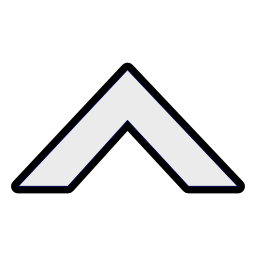
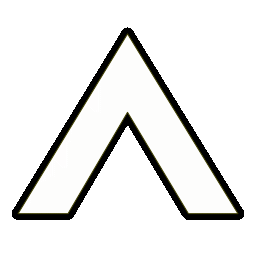
- added appserverversion to App - direct event change listenr - added ligth dark direction marker

Changed region(s): [[0.0312, 0.0938, 0.9688, 0.875]]

diff --git a/lib/models/shake_hand_result.mapper.dart b/lib/models/shake_hand_result.mapper.dart
@@ -26,6 +26,9 @@ class ShakeHandResultMapper extends ClassMapperBase<ShakeHandResult> {
   static int _$minBuild(ShakeHandResult v) => v.minBuild;
   static const Field<ShakeHandResult, int> _f$minBuild =
       Field('minBuild', _$minBuild, key: 'mbu');
+  static String? _$serverVersion(ShakeHandResult v) => v.serverVersion;
+  static const Field<ShakeHandResult, String> _f$serverVersion =
+      Field('serverVersion', _$serverVersion, key: 'ver', opt: true);
   static Exception? _$rpcException(ShakeHandResult v) => v.rpcException;
   static const Field<ShakeHandResult, Exception> _f$rpcException =
       Field('rpcException', _$rpcException, opt: true);
@@ -34,6 +37,7 @@ class ShakeHandResultMapper extends ClassMapperBase<ShakeHandResult> {
   final MappableFields<ShakeHandResult> fields = const {
     #status: _f$status,
     #minBuild: _f$minBuild,
+    #serverVersion: _f$serverVersion,
     #rpcException: _f$rpcException,
   };
 
@@ -41,6 +45,7 @@ class ShakeHandResultMapper extends ClassMapperBase<ShakeHandResult> {
     return ShakeHandResult(
         status: data.dec(_f$status),
         minBuild: data.dec(_f$minBuild),
+        serverVersion: data.dec(_f$serverVersion),
         rpcException: data.dec(_f$rpcException));
   }
 
@@ -97,7 +102,11 @@ extension ShakeHandResultValueCopy<$R, $Out>
 
 abstract class ShakeHandResultCopyWith<$R, $In extends ShakeHandResult, $Out>
     implements ClassCopyWith<$R, $In, $Out> {
-  $R call({bool? status, int? minBuild, Exception? rpcException});
+  $R call(
+      {bool? status,
+      int? minBuild,
+      String? serverVersion,
+      Exception? rpcException});
   ShakeHandResultCopyWith<$R2, $In, $Out2> $chain<$R2, $Out2>(
       Then<$Out2, $R2> t);
 }
@@ -111,16 +120,22 @@ class _ShakeHandResultCopyWithImpl<$R, $Out>
   late final ClassMapperBase<ShakeHandResult> $mapper =
       ShakeHandResultMapper.ensureInitialized();
   @override
-  $R call({bool? status, int? minBuild, Object? rpcException = $none}) =>
+  $R call(
+          {bool? status,
+          int? minBuild,
+          Object? serverVersion = $none,
+          Object? rpcException = $none}) =>
       $apply(FieldCopyWithData({
         if (status != null) #status: status,
         if (minBuild != null) #minBuild: minBuild,
+        if (serverVersion != $none) #serverVersion: serverVersion,
         if (rpcException != $none) #rpcException: rpcException
       }));
   @override
   ShakeHandResult $make(CopyWithData data) => ShakeHandResult(
       status: data.get(#status, or: $value.status),
       minBuild: data.get(#minBuild, or: $value.minBuild),
+      serverVersion: data.get(#serverVersion, or: $value.serverVersion),
       rpcException: data.get(#rpcException, or: $value.rpcException));
 
   @override

diff --git a/lib/wamp/wamp_v2.dart b/lib/wamp/wamp_v2.dart
@@ -14,6 +14,7 @@ import '../app_settings/server_connections.dart';
 import '../helpers/hive_box/hive_settings_db.dart';
 import '../helpers/logger.dart';
 import '../helpers/wamp/message_types.dart';
+import '../models/event.dart';
 import '../models/realtime_update.dart';
 import '../models/shake_hand_result.dart';
 import 'bn_wamp_message.dart';
@@ -78,6 +79,7 @@ class WampV2 {
   final _wampConnectedStreamController = StreamController<bool>.broadcast();
   final realTimeUpdateStreamController =
       StreamController<RealtimeUpdate>.broadcast();
+  final eventUpdateStreamController = StreamController<Event>.broadcast();
 
   StreamController<bool> get wampConnectedStreamController =>
       _wampConnectedStreamController;
@@ -428,8 +430,18 @@ class WampV2 {
             //         PUBLISH.Arguments|list, PUBLISH.ArgumentsKw|dict]
             //[36, 5512315355, 4429313566, {}, [], {"color": "orange", "sizes": [23, 42, 7]}]
             try {
-              var messageResult = wampMessage[2];
+              var payload = wampMessage[2];
               var id = int.parse(wampMessage[1]);
+              if (id == 12345678 && wampMessage.length >= 3) {
+                //new event triggered
+                try {
+                  var event = EventMapper.fromMap(payload);
+                  eventUpdateStreamController.sink.add(event);
+                } catch (e) {
+                  BnLog.error(text: 'error event decoding wampV2');
+                }
+                return;
+              }
               _subscriptions.add(id);
               //realTimeUpdateStreamController.sink.add(RealtimeUpdateMapper.fromMap(messageResult));
               return;

diff --git a/lib/pages/widgets/route_name_dialog.dart b/lib/pages/widgets/route_name_dialog.dart
@@ -1,3 +1,4 @@
+import 'package:adaptive_theme/adaptive_theme.dart';
 import 'package:flutter/cupertino.dart';
 import 'package:flutter/material.dart';
 import 'package:flutter_map/flutter_map.dart';
@@ -132,10 +133,16 @@ class RouteNameDialog extends ConsumerWidget {
                               child: Builder(
                                 builder: (context) => Transform.rotate(
                                   angle: hp.bearing,
-                                  child: const Image(
-                                    image: AssetImage(
-                                      'assets/images/arrow_up_mgn_small.png',
-                                    ),
+                                  child: Image(
+                                    image: CupertinoAdaptiveTheme.of(context)
+                                                .theme
+                                                .brightness ==
+                                            Brightness.dark
+                                        ? AssetImage(
+                                            'assets/images/arrow_up_pure_margin.png',
+                                          )
+                                        : AssetImage(
+                                            'assets/images/arrow_up_pure_margin_dark.png'),
                                     fit: BoxFit.cover,
                                   ),
                                 ),

diff --git a/lib/pages/widgets/route_dialog.dart b/lib/pages/widgets/route_dialog.dart
@@ -1,3 +1,4 @@
+import 'package:adaptive_theme/adaptive_theme.dart';
 import 'package:flutter/cupertino.dart';
 import 'package:flutter/material.dart';
 import 'package:flutter_map/flutter_map.dart';
@@ -122,10 +123,16 @@ class RouteDialog extends ConsumerWidget {
                               child: Builder(
                                 builder: (context) => Transform.rotate(
                                   angle: hp.bearing,
-                                  child: const Image(
-                                    image: AssetImage(
-                                      'assets/images/arrow_up_mgn_small.png',
-                                    ),
+                                  child: Image(
+                                    image: CupertinoAdaptiveTheme.of(context)
+                                                .theme
+                                                .brightness ==
+                                            Brightness.dark
+                                        ? AssetImage(
+                                            'assets/images/arrow_up_pure_margin.png',
+                                          )
+                                        : AssetImage(
+                                            'assets/images/arrow_up_pure_margin_dark.png'),
                                     fit: BoxFit.cover,
                                   ),
                                 ),

diff --git a/lib/pages/home_info/event_map_small.dart b/lib/pages/home_info/event_map_small.dart
@@ -1,3 +1,4 @@
+import 'package:adaptive_theme/adaptive_theme.dart';
 import 'package:flutter/cupertino.dart';
 import 'package:flutter_map/flutter_map.dart';
 import 'package:flutter_riverpod/flutter_riverpod.dart';
@@ -117,10 +118,16 @@ class _EventMapSmallState extends ConsumerState<EventMapSmall> {
                         child: Builder(
                           builder: (context) => Transform.rotate(
                             angle: hp.bearing,
-                            child: const Image(
-                              image: AssetImage(
-                                'assets/images/arrow_up_mgn_small.png',
-                              ),
+                            child: Image(
+                              image: CupertinoAdaptiveTheme.of(context)
+                                          .theme
+                                          .brightness ==
+                                      Brightness.dark
+                                  ? AssetImage(
+                                      'assets/images/arrow_up_pure_margin.png',
+                                    )
+                                  : AssetImage(
+                                      'assets/images/arrow_up_pure_margin_dark.png'),
                               fit: BoxFit.cover,
                             ),
                           ),

diff --git a/lib/pages/map/widgets/headings_layer.dart b/lib/pages/map/widgets/headings_layer.dart
@@ -1,3 +1,4 @@
+import 'package:adaptive_theme/adaptive_theme.dart';
 import 'package:flutter/material.dart';
 import 'package:flutter_map/flutter_map.dart';
 import 'package:flutter_riverpod/flutter_riverpod.dart';
@@ -42,10 +43,15 @@ class _HeadingsLayerState extends ConsumerState<HeadingsLayer> {
               child: Builder(
                 builder: (context) => Transform.rotate(
                   angle: hp.bearing,
-                  child: const Image(
-                    image: AssetImage(
-                      'assets/images/arrow_up_mgn_small.png',
-                    ),
+                  child: Image(
+                    image:
+                        CupertinoAdaptiveTheme.of(context).theme.brightness ==
+                                Brightness.dark
+                            ? AssetImage(
+                                'assets/images/arrow_up_pure_margin.png',
+                              )
+                            : AssetImage(
+                                'assets/images/arrow_up_pure_margin_dark.png'),
                     fit: BoxFit.cover,
                   ),
                 ),

diff --git a/lib/providers/map/heading_marker_size_provider.dart b/lib/providers/map/heading_marker_size_provider.dart
@@ -1,23 +1,32 @@
 import 'package:riverpod_annotation/riverpod_annotation.dart';
 
+import 'icon_size_provider.dart';
+
 part 'heading_marker_size_provider.g.dart';
 
 @riverpod
 class HeadingMarkerSize extends _$HeadingMarkerSize {
+  var size = 20.0;
+
   @override
   double build() {
-    return 20;
+    size = ref.watch(iconSizeProvider);
+    return size * 2;
   }
 
   double setSize(double value) {
+    print('headingmarker zoom size= $value');
     if (value > 18) {
-      state = value * 2;
+      state = value * 1.5;
     } else if (value > 15) {
+      state = value * 1.4;
+    } else if (value > 11) {
       state = value * 1.2;
     } else {
-      state = value * 0.9;
+      state = value * 1.0;
     }
     //print('heading_marker_size_provider size $value $state');
-    return state;
+    print('headingmarker zoom result size= $state');
+    return state * 2;
   }
 }

diff --git a/lib/providers/active_event_provider.dart b/lib/providers/active_event_provider.dart
@@ -1,3 +1,5 @@
+import 'dart:async';
+
 import 'package:flutter/foundation.dart';
 import 'package:riverpod_annotation/riverpod_annotation.dart';
 
@@ -5,14 +7,23 @@ import '../helpers/hive_box/hive_settings_db.dart';
 import '../helpers/notification/notification_helper.dart';
 import '../helpers/watch_communication_helper.dart';
 import '../models/event.dart';
+import '../wamp/wamp_v2.dart';
 
 part 'active_event_provider.g.dart';
 
 @Riverpod(keepAlive: true)
 class ActiveEvent extends _$ActiveEvent {
+  StreamSubscription<Event>? evtStream;
   @override
   Event build() {
     state = HiveSettingsDB.getActualEvent;
+    evtStream = WampV2().eventUpdateStreamController.stream.listen((event) {
+      state = event;
+    });
+
+    ref.onDispose(() {
+      evtStream?.cancel();
+    });
     return state;
   }
 

diff --git a/lib/models/shake_hand_result.dart b/lib/models/shake_hand_result.dart
@@ -19,6 +19,8 @@ class ShakeHandResult with ShakeHandResultMappable {
   final bool status;
   @MappableField(key: 'mbu')
   final int minBuild;
+  @MappableField(key: 'ver')
+  final String? serverVersion;
 
   Exception? rpcException;
 
@@ -27,7 +29,10 @@ class ShakeHandResult with ShakeHandResultMappable {
   /// [status] = [false] -> App is outdated
   /// [minBuild] = Minimum required Buildnumber
   ShakeHandResult(
-      {required this.status, required this.minBuild, this.rpcException});
+      {required this.status,
+      required this.minBuild,
+      this.serverVersion,
+      this.rpcException});
 
   static Future<ShakeHandResult> shakeHandsWamp() async {
     Completer? completer = Completer();

diff --git a/lib/pages/events/widgets/event_editor.dart b/lib/pages/events/widgets/event_editor.dart
@@ -82,6 +82,7 @@ class _EventEditorState extends ConsumerState<EventEditor> {
             isSaving
                 ? const SliverToBoxAdapter(child: LinearProgressIndicator())
                 : SliverFillRemaining(
+                    fillOverscroll: true,
                     child: Column(children: [
                       Divider(
                         thickness: 2,

diff --git a/lib/pages/map/widgets/special_function_info.dart b/lib/pages/map/widgets/special_function_info.dart
@@ -63,11 +63,11 @@ class SpecialFunctionInfo extends ConsumerWidget {
             ),
           ]),
         ),
-      if (!kIsWeb &&
+      /*if (!kIsWeb &&
           (ref.watch(showOwnColoredTrackProvider) ||
               (isTracking && wantSeeFullProcession))) ...[
         const SpeedInfoColors(),
-      ],
+      ],*/
     ]);
   }
 }

diff --git a/changelog.md b/changelog.md
@@ -3,28 +3,44 @@
 ## [Unreleased]
 
 ### Added
+
 ### Fixed
+
 ### Changed
+
 ### Removed
+
+## [1.25.00] - 2025 - dev
+
+- shakehand get server_version
+- graphical improvements
+- immediately event change info
+- nodes in actual event transfered
 
 ## [1.24.19] - 2024-07-13
 
 ### Changed
+
 - colored user-track-lines
 - new colors for polygon layers
+
 #### Packages
+
 - flutter_map to V7.0.2
 - onesignal to V5.2.0
 
-
 ### Fixed
+
 - Update for improvement of ploygonlayer issue in fluttermap
-    see https://pub.dev/packages/flutter_map/changelog
+  see https://pub.dev/packages/flutter_map/changelog
 
 ## [1.24.18] - 2024-06-23
-### Fixed 
+
+### Fixed
+
 - Removed nearby friend connection because many issues of Android OS with all frameworks
 - Android Version from V24 to V21
 
 ### Changes
+
 - Replaced button for Bladeguard registering by a colored Button
